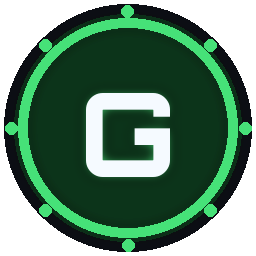
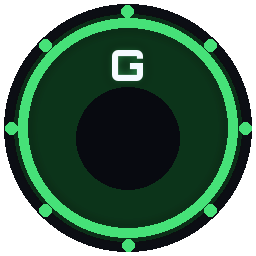
Numbered mana chips

Changed region(s): [[0.2812, 0.1875, 0.7188, 0.75]]

diff --git a/tools/make_mana_art.py b/tools/make_mana_art.py
@@ -27,7 +27,7 @@ def font(px):
     return f
 
 
-def chip(letter, rim, face, size=256):
+def chip(letter, rim, face, size=256, counter=True):
     S = size
     img = Image.new("RGBA", (S, S), (0, 0, 0, 0))
     d = ImageDraw.Draw(img)
@@ -50,12 +50,17 @@ def chip(letter, rim, face, size=256):
         a = k * math.pi / 4
         cx, cy = S / 2 + math.cos(a) * (S / 2 - 11), S / 2 + math.sin(a) * (S / 2 - 11)
         d.ellipse([cx - 6, cy - 6, cx + 6, cy + 6], fill=rim + (255,))
-    # Letter with glow.
-    f = font(S * 0.46)
+    # Letter with glow. On the table chip the letter sits small at the top
+    # and the middle stays dark for the count (drawn live by mana.lua).
+    if counter:
+        f, pos = font(S * 0.17), (S / 2, S * 0.25)
+        ImageDraw.Draw(img).ellipse([S * 0.3, S * 0.34, S * 0.7, S * 0.74], fill=(8, 10, 16, 255))
+    else:
+        f, pos = font(S * 0.46), (S / 2, S / 2 + 4)
     t = Image.new("RGBA", (S, S), (0, 0, 0, 0))
-    ImageDraw.Draw(t).text((S / 2, S / 2 + 4), letter, font=f, fill=rim + (255,), anchor="mm")
-    img.alpha_composite(t.filter(ImageFilter.GaussianBlur(6)))
-    ImageDraw.Draw(img).text((S / 2, S / 2 + 4), letter, font=f, fill=(245, 250, 255, 255), anchor="mm")
+    ImageDraw.Draw(t).text(pos, letter, font=f, fill=rim + (255,), anchor="mm")
+    img.alpha_composite(t.filter(ImageFilter.GaussianBlur(max(2, S // 50))))
+    ImageDraw.Draw(img).text(pos, letter, font=f, fill=(245, 250, 255, 255), anchor="mm")
     return img
 
 
@@ -84,7 +89,7 @@ def tile():
     img.alpha_composite(border)
     ImageDraw.Draw(img).text((W / 2, 22), "MANA", font=font(22), fill=(90, 240, 255, 255), anchor="mm")
     for (key, letter, rim, face), (_, x, z) in zip(CHIPS, CHIP_SLOTS):
-        c = chip(letter, rim, face, 128)
+        c = chip(letter, rim, face, 128, counter=False)
         cx, cy = W / 2 + x * PPU, H / 2 + z * PPU
         img.alpha_composite(c, (int(cx - 64), int(cy - 64)))
     return img
